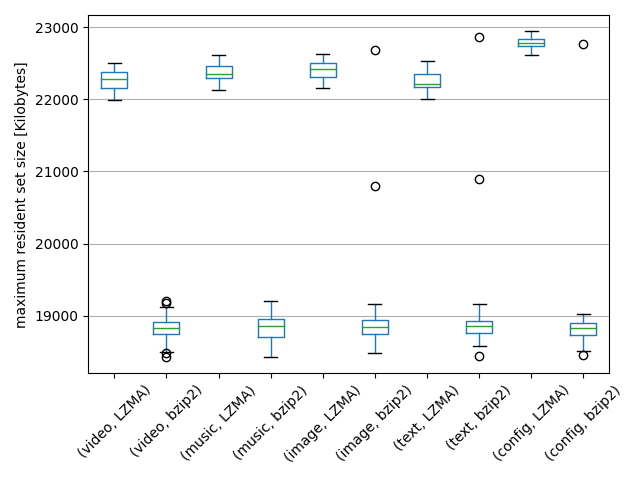
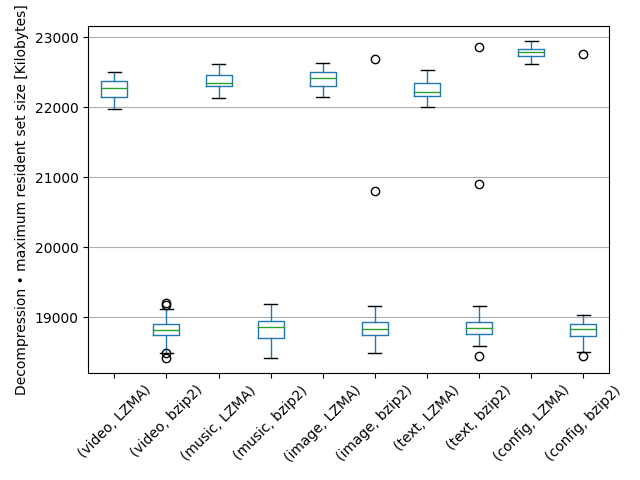
Improve vizualization

diff --git a/graphs.py b/graphs.py
@@ -21,10 +21,10 @@ def prepare_size_dataset(datasets: List[Dict[str, str]]) -> pandas.DataFrame:
         dataset_df = pandas.concat([lzma_df, bzip2_df], axis=1)
         results_df = pandas.concat([results_df, dataset_df])
 
-    results_df.columns = pandas.MultiIndex.from_tuples([("-", 'uncompressed'),
-                                                        ("LZMA", "compressed"),
-                                                        ("bzip2", "compressed")],
-                                                       names=("algorithm", ""))
+    results_df.columns = pandas.MultiIndex.from_tuples([('-', 'uncompressed'),
+                                                        ('LZMA', 'compressed'),
+                                                        ('bzip2', 'compressed')],
+                                                       names=['algorithm', ""])
     return results_df
 
 
@@ -166,6 +166,7 @@ size_dataset.rename(index={'sample_config': 'config', 'sample_enwik8': 'text', '
 ax = size_dataset.plot.bar(rot=45)
 ax.legend(loc='lower left')
 ax.set_ylabel("file size [bytes]")
+ax.set_xlabel("")
 ax.grid(axis='y')
 fig = ax.get_figure()
 fig.tight_layout()
@@ -173,13 +174,16 @@ fig.savefig("size.png")
 
 # bar chart for compressed size per dataset two bars (lzma, bzip2) space saving
 size_dataset[("LZMA", "space_savings")] = (1 - (size_dataset[("LZMA", "compressed")] / size_dataset[("-", "uncompressed")])) * 100
-size_dataset[("bzip2", "space_savings")] = (1 - (size_dataset[("bzip2", "compressed")] / size_dataset[("-", "uncompressed")])) * 100
+size_dataset[("bzip2", "space_savings")] = (1 - (size_dataset[("bzip2", "compressed")] / size_dataset[("-",
+                                                                                                       'uncompressed')])) * 100
 space_savings = size_dataset.drop(columns=[("LZMA", "compressed"), ("-", "uncompressed"), ("bzip2", "compressed")])
+space_savings.columns = space_savings.columns.droplevel(level=1)
 space_savings.rename(index={'sample_config': 'config', 'sample_enwik8': 'text', 'sample_image-data': 'image',
                             'sample_music': 'music', 'sample_vid.mp4': 'video'}, inplace=True)
-ax = space_savings.plot.bar(rot=45)
+ax = space_savings.plot.bar(rot=0)
 ax.legend(loc='upper left')
 ax.set_ylabel("space savings [%]")
+ax.set_xlabel(" ")
 ax.grid(axis='y')
 fig = ax.get_figure()
 fig.tight_layout()
@@ -194,7 +198,7 @@ comp_time_dataset = comp_time_dataset.droplevel(2, axis=1)
 comp_time_dataset.columns.set_levels(['config', 'text', 'image', 'music', 'video'], level=0, inplace=True)
 ax = comp_time_dataset.plot.box(rot=45)
 # ax.legend(loc='upper left')
-ax.set_ylabel("CPU-time (system+user) [s]")
+ax.set_ylabel("Compression • CPU-time (system+user) [s]")
 ax.grid(axis='y')
 fig = ax.get_figure()
 fig.tight_layout()
@@ -207,7 +211,7 @@ decomp_time_dataset = decomp_time_dataset.droplevel(2, axis=1)
 decomp_time_dataset.columns.set_levels(['config', 'text', 'image', 'music', 'video'], level=0, inplace=True)
 ax = decomp_time_dataset.plot.box(rot=45)
 # ax.legend(loc='upper left')
-ax.set_ylabel("CPU-time (system+user) [s]")
+ax.set_ylabel("Decompression • CPU-time (system+user) [s]")
 ax.grid(axis='y')
 fig = ax.get_figure()
 fig.tight_layout()
@@ -221,7 +225,7 @@ comp_space_dataset = comp_space_dataset.droplevel(2, axis=1)
 comp_space_dataset.columns.set_levels(['config', 'text', 'image', 'music', 'video'], level=0, inplace=True)
 ax = comp_space_dataset.plot.box(rot=45)
 # ax.legend(loc='upper left')
-ax.set_ylabel("maximum resident set size [Kilobytes]")
+ax.set_ylabel("Compression • maximum resident set size [Kilobytes]")
 ax.grid(axis='y')
 fig = ax.get_figure()
 fig.tight_layout()
@@ -234,7 +238,7 @@ decomp_space_dataset = decomp_space_dataset.droplevel(2, axis=1)
 decomp_space_dataset.columns.set_levels(['config', 'text', 'image', 'music', 'video'], level=0, inplace=True)
 ax = decomp_space_dataset.plot.box(rot=45)
 # ax.legend(loc='upper left')
-ax.set_ylabel("maximum resident set size [Kilobytes]")
+ax.set_ylabel("Decompression • maximum resident set size [Kilobytes]")
 ax.grid(axis='y')
 fig = ax.get_figure()
 fig.tight_layout()
